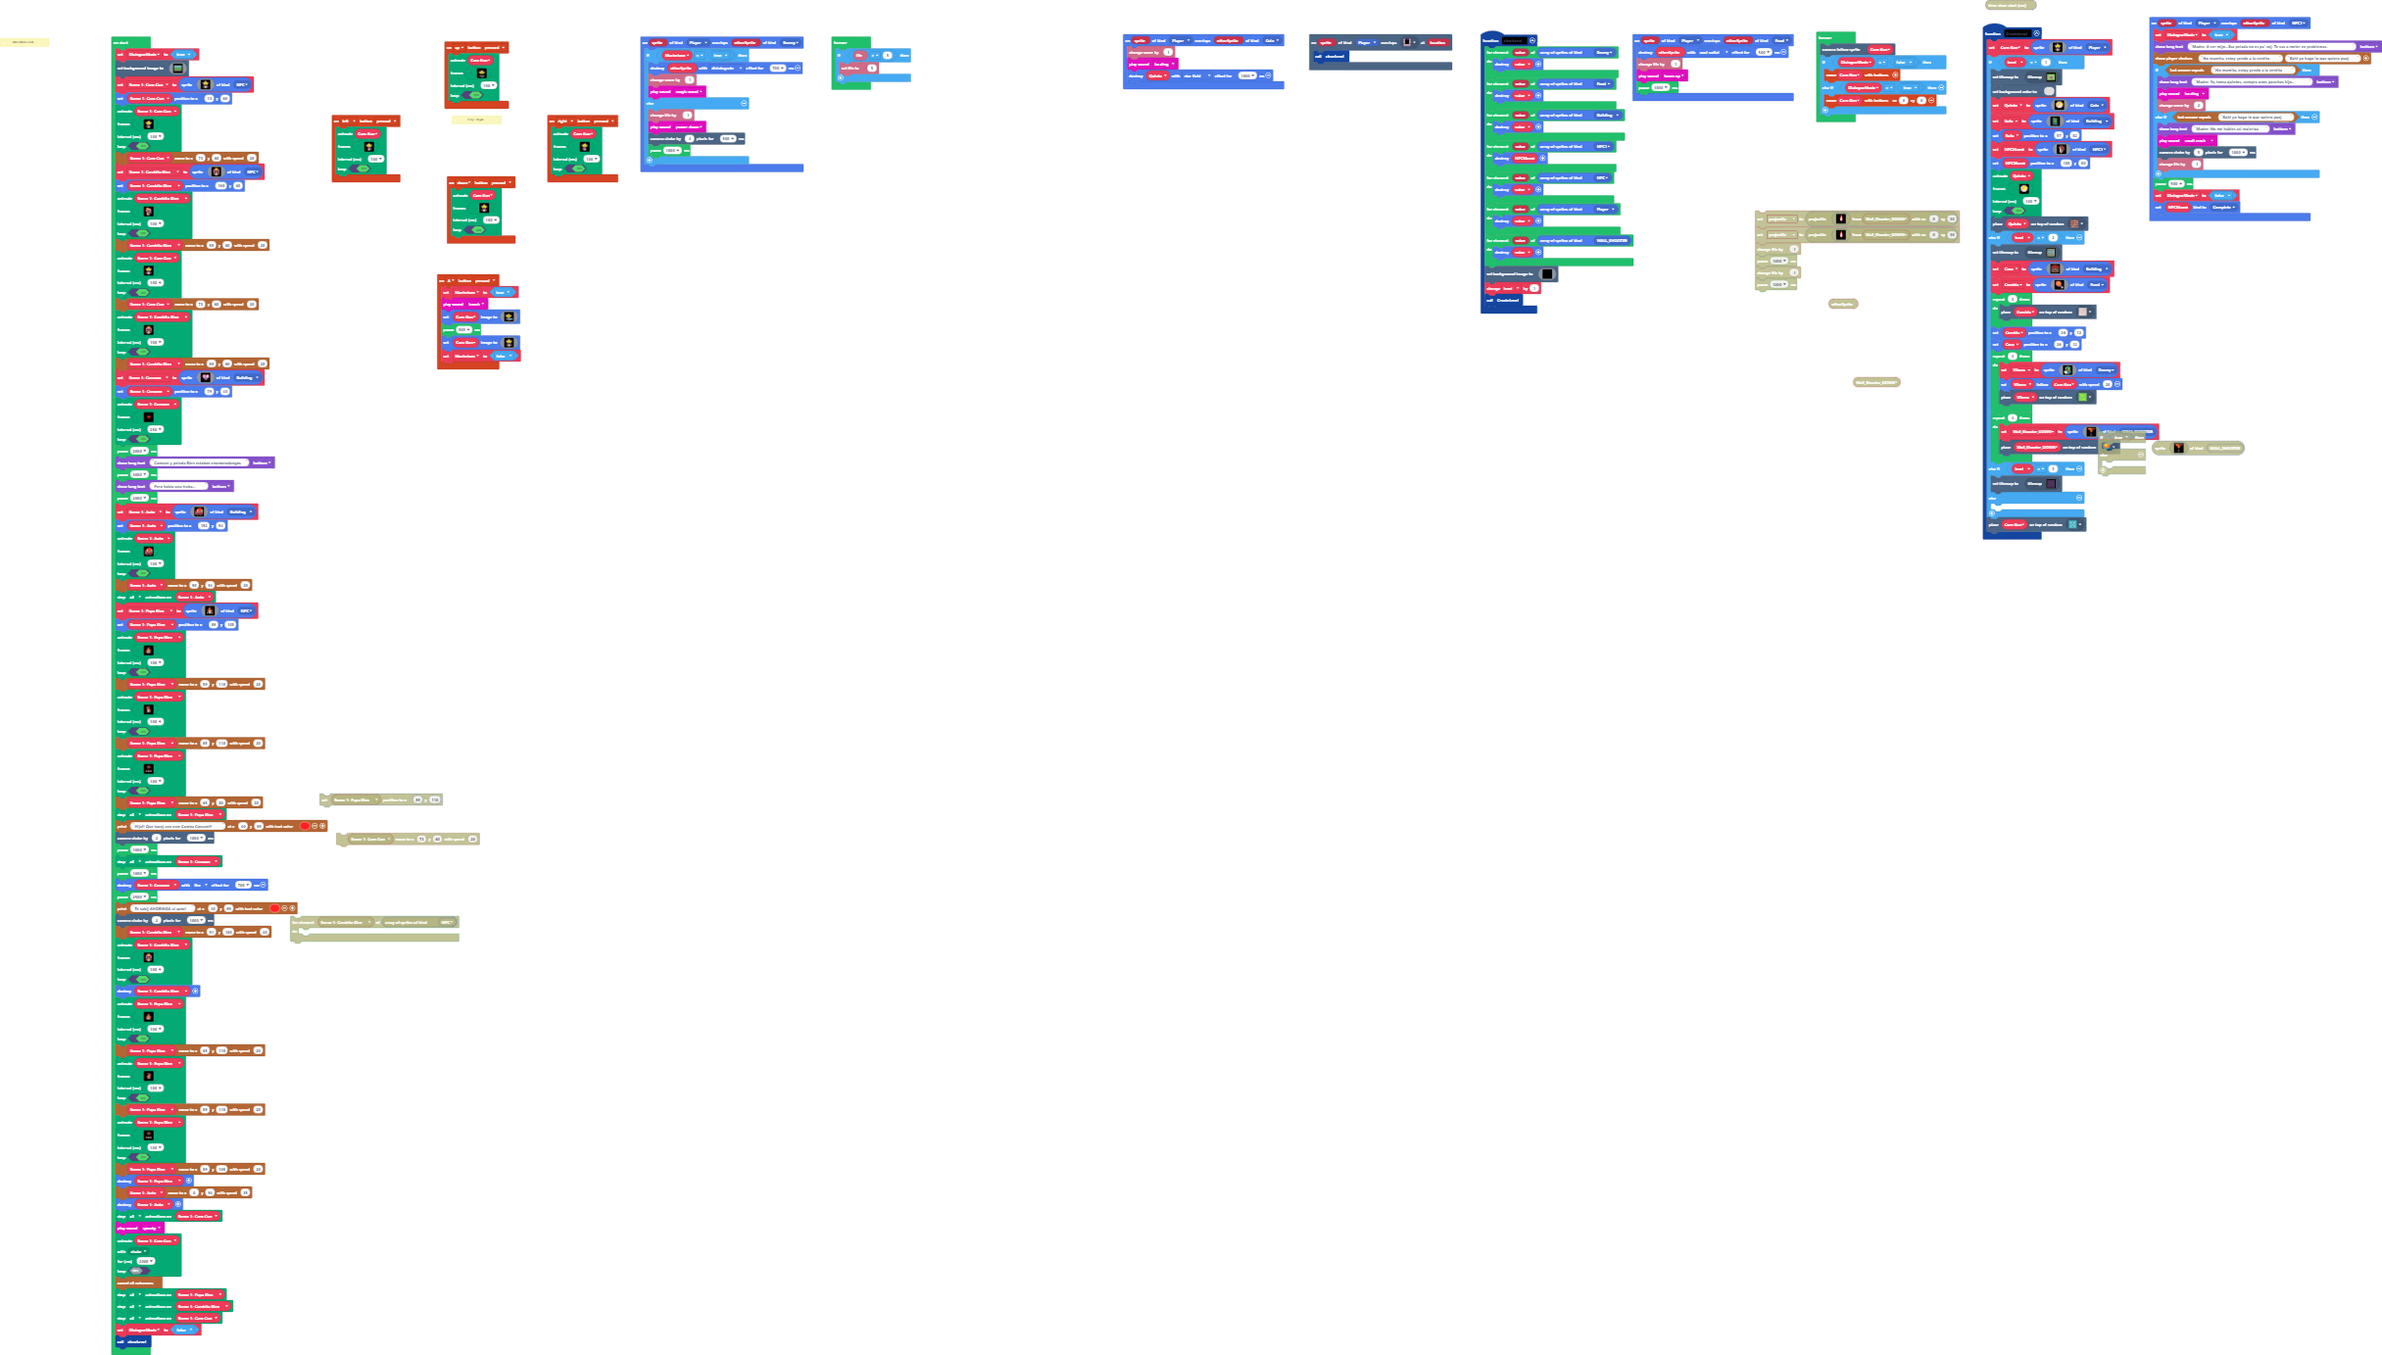
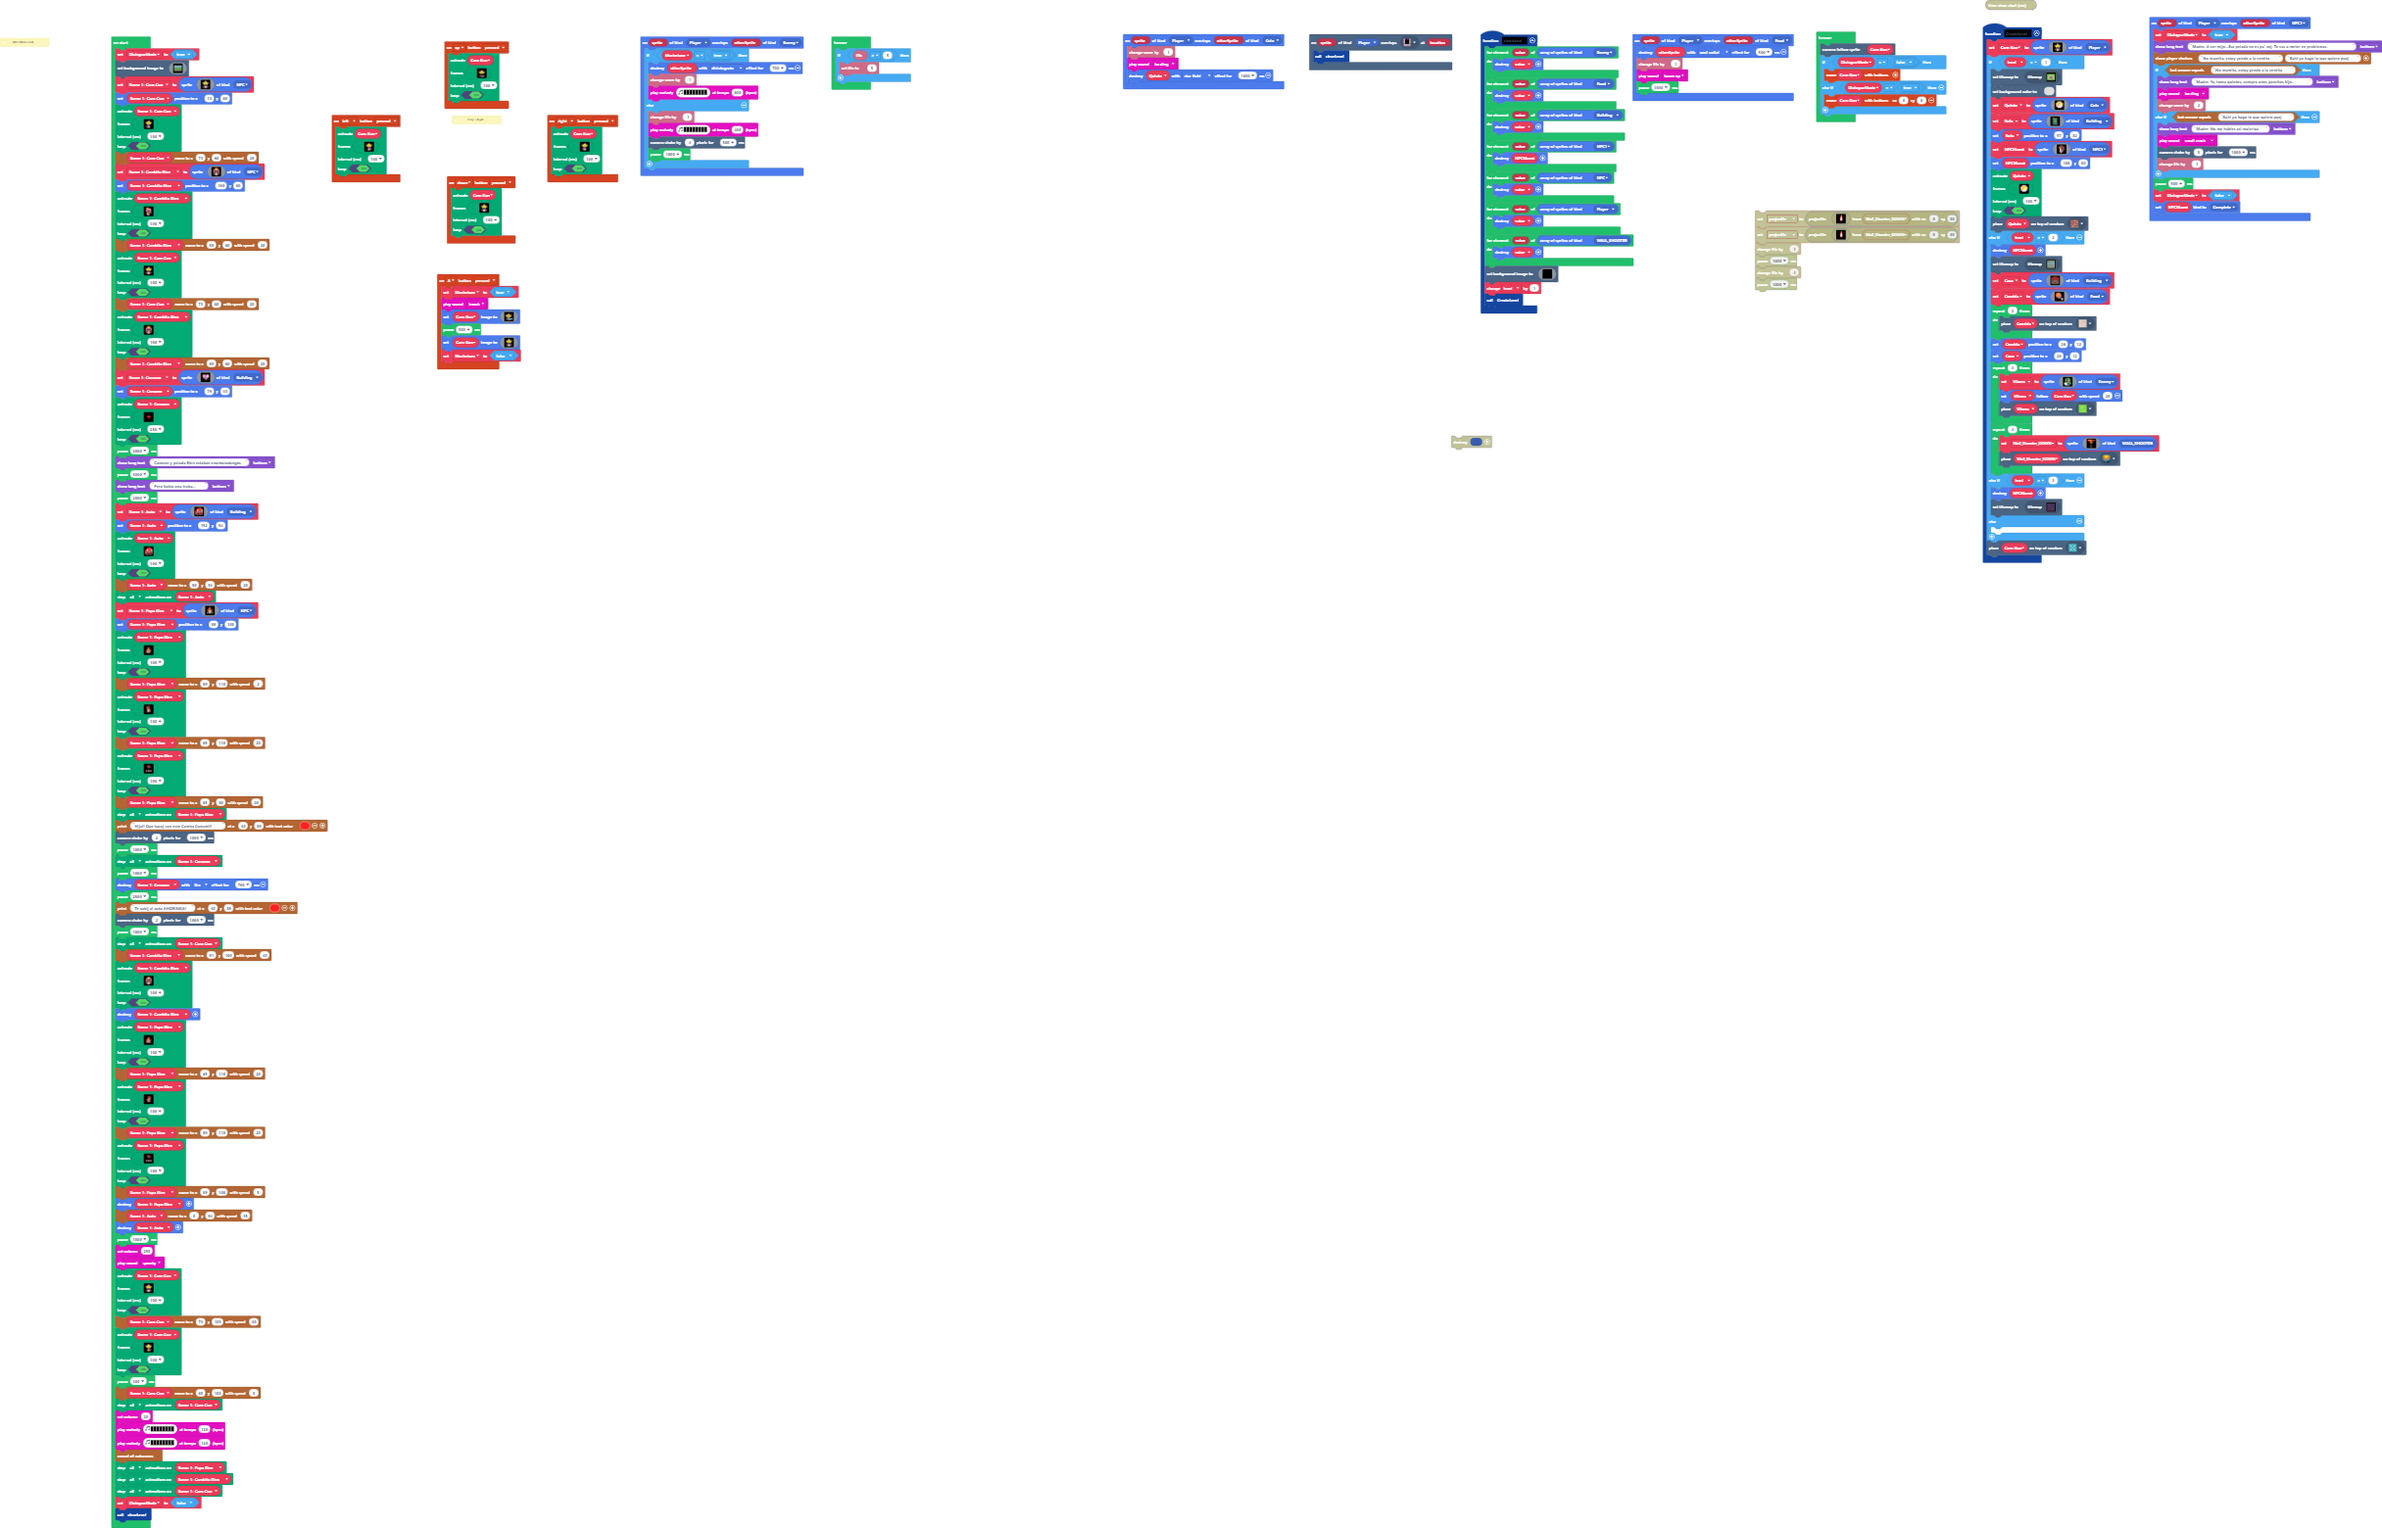
Update main.blocks, main.ts

Changed region(s): [[0.0309, 0.0, 0.4011, 0.9949], [0.4628, 0.0, 1.0, 0.4042], [0.7713, 0.2798, 0.8021, 0.3109]]

diff --git a/main.ts b/main.ts
@@ -431,6 +431,7 @@ function CreateLevel () {
         )
         tiles.placeOnRandomTile(Quinto, assets.tile`myTile1`)
     } else if (level == 2) {
+        NPCMama.destroy()
         tiles.setCurrentTilemap(tilemap`El Pirai`)
         Casa = sprites.create(img`
             ....................e2e22e2e....................
@@ -532,6 +533,7 @@ function CreateLevel () {
             tiles.placeOnRandomTile(Wall_Shooter_DOWN, assets.tile`forestTiles0`)
         }
     } else if (level == 3) {
+        NPCMama.destroy()
         tiles.setCurrentTilemap(tilemap`level4`)
     } else {
     	
@@ -771,10 +773,10 @@ sprites.onOverlap(SpriteKind.Player, SpriteKind.Enemy, function (sprite, otherSp
     if (Machetazo == true) {
         otherSprite.destroy(effects.disintegrate, 700)
         info.changeScoreBy(1)
-        music.magicWand.play()
+        music.playMelody("B C5 C5 - - - - - ", 600)
     } else {
         info.changeLifeBy(-1)
-        music.powerDown.play()
+        music.playMelody("C D D - - - - - ", 400)
         scene.cameraShake(4, 500)
         pause(1000)
     }
@@ -1524,7 +1526,7 @@ Scene_1_Papa_Bien,
 100,
 true
 )
-story.spriteMoveToLocation(Scene_1_Papa_Bien, 89, 110, 20)
+story.spriteMoveToLocation(Scene_1_Papa_Bien, 89, 110, 2)
 animation.runImageAnimation(
 Scene_1_Papa_Bien,
 [img`
@@ -1649,8 +1651,10 @@ animation.stopAnimation(animation.AnimationTypes.All, Scene_1_Corazon)
 pause(1000)
 Scene_1_Corazon.destroy(effects.fire, 700)
 pause(2500)
-story.printText("Te subij AHORINGA al auto!", 40, 89, 2)
+story.printText("Te subij al auto AHORINGA!", 40, 89, 2)
 scene.cameraShake(2, 1000)
+pause(1000)
+animation.stopAnimation(animation.AnimationTypes.All, Scene_1_CamCun)
 story.spriteMoveToLocation(Scene_1_Cambita_Bien, 91, 100, 40)
 animation.runImageAnimation(
 Scene_1_Cambita_Bien,
@@ -1900,18 +1904,168 @@ Scene_1_Papa_Bien,
 100,
 true
 )
-story.spriteMoveToLocation(Scene_1_Papa_Bien, 89, 108, 20)
+story.spriteMoveToLocation(Scene_1_Papa_Bien, 89, 108, 5)
 Scene_1_Papa_Bien.destroy()
 story.spriteMoveToLocation(Scene_1_Auto, 0, 94, 35)
 Scene_1_Auto.destroy()
-animation.stopAnimation(animation.AnimationTypes.All, Scene_1_CamCun)
+pause(1000)
+music.setVolume(255)
 music.spooky.play()
-animation.runMovementAnimation(
+animation.runImageAnimation(
 Scene_1_CamCun,
-animation.animationPresets(animation.shake),
-2000,
-false
+[img`
+    . . . . . . . c c c . . . . . . 
+    . . . . . . c b 5 c . . . . . . 
+    . . . . c c c 5 5 c c c . . . . 
+    . . c c b c 5 5 5 5 c c c c . . 
+    . c b b 5 b 5 5 5 5 b 5 b b c . 
+    . c b 5 5 b b 5 5 b b 5 5 b c . 
+    . . f 5 5 5 b b b b 5 5 5 c . . 
+    . . f f 5 5 5 5 5 5 5 5 f f . . 
+    . . f f f b f e e f b f f f . . 
+    . . f f f 1 f b b f 1 f f f . . 
+    . . . f f b b b b b b f f . . . 
+    . . . e e f e e e e f e e . . . 
+    . . e b c b 1 b b 1 b f b e . . 
+    . . e e f 1 1 1 1 1 1 f e e . . 
+    . . . . c b 1 1 1 1 b c . . . . 
+    . . . . . f f f f f f . . . . . 
+    `,img`
+    . . . . . . . . . . . . . . . . 
+    . . . . . . c c . . . . . . . . 
+    . . . . . . c 5 c . . . . . . . 
+    . . . . c c c 5 5 c c c . . . . 
+    . . c c c c 5 5 5 5 c b c c . . 
+    . c b b 5 b 5 5 5 5 b 5 b b c . 
+    . c b 5 5 b b 5 5 b b 5 5 b c . 
+    . . c 5 5 5 b b b b 5 5 5 f . . 
+    . . f f 5 5 5 5 5 5 5 5 f f . . 
+    . . f f f b f e e f b f f f . . 
+    . . f f f 1 f b b f 1 f f f . . 
+    . . . f f b b b b e e e f . . . 
+    . . e b b f e e e e b b e . . . 
+    . . e e f 1 1 b b e b b e . . . 
+    . . . f 1 1 1 1 1 e e c . . . . 
+    . . . . f f f f f f f . . . . . 
+    `,img`
+    . . . . . . c c c . . . . . . . 
+    . . . . . . c 5 b c . . . . . . 
+    . . . . c c c 5 5 c c c . . . . 
+    . . c c c c 5 5 5 5 c b c c . . 
+    . c b b 5 b 5 5 5 5 b 5 b b c . 
+    . c b 5 5 b b 5 5 b b 5 5 b c . 
+    . . c 5 5 5 b b b b 5 5 5 f . . 
+    . . f f 5 5 5 5 5 5 5 5 f f . . 
+    . . f f f b f e e f b f f f . . 
+    . . f f f 1 f b b f 1 f f f . . 
+    . . . f f b b b b b b f f . . . 
+    . . . e e f e e e e f e e . . . 
+    . . e b f b 1 b b 1 b c b e . . 
+    . . e e f 1 1 1 1 1 1 f e e . . 
+    . . . . c b 1 1 1 1 b c . . . . 
+    . . . . . f f f f f f . . . . . 
+    `,img`
+    . . . . . . . . . . . . . . . . 
+    . . . . . . . . c c . . . . . . 
+    . . . . . . . c 5 c . . . . . . 
+    . . . . c c c 5 5 c c c . . . . 
+    . . c c b c 5 5 5 5 c c c c . . 
+    . c b b 5 b 5 5 5 5 b 5 b b c . 
+    . c b 5 5 b b 5 5 b b 5 5 b c . 
+    . . f 5 5 5 b b b b 5 5 5 c . . 
+    . . f f 5 5 5 5 5 5 5 5 f f . . 
+    . . f f f b f e e f b f f f . . 
+    . . f f f 1 f b b f 1 f f f . . 
+    . . . f e e e b b b b f f . . . 
+    . . . e b b e e e e f b b e . . 
+    . . . e b b e b b 1 1 f e e . . 
+    . . . . c e e 1 1 1 1 1 f . . . 
+    . . . . . f f f f f f f . . . . 
+    `],
+100,
+true
 )
+story.spriteMoveToLocation(Scene_1_CamCun, 73, 103, 30)
+animation.runImageAnimation(
+Scene_1_CamCun,
+[img`
+    . . . . . . . c c . . . . . . . 
+    . . . . . . c 5 c . . . . . . . 
+    . . . . c c 5 5 5 c c c . . . . 
+    . . c c c c 5 5 5 5 c b c c . . 
+    . c b b 5 b 5 5 5 5 b 5 b b c . 
+    . c b 5 5 b b 5 5 b b 5 5 b c . 
+    . . c 5 5 5 b b b b 5 5 5 f . . 
+    . . . f 5 5 5 5 5 5 5 5 f f . . 
+    . . . . f e e e f b e e f f . . 
+    . . . . f e b b f 1 b f f f . . 
+    . . . . f b b b b b b f f . . . 
+    . . . . . f e e e e f e e . . . 
+    . . . . . f 5 b b e b b e . . . 
+    . . . . f 5 5 5 5 e b b e . . . 
+    . . . . c b 5 5 5 5 e e . . . . 
+    . . . . . f f f f f f . . . . . 
+    `,img`
+    . . . . . . . . . . . . . . . . 
+    . . . . . . . c c . . . . . . . 
+    . . . . . . c c 5 c . . . . . . 
+    . . . . c c 5 5 5 c c c . . . . 
+    . . c c c c 5 5 5 5 c b c c . . 
+    . c b b 5 b 5 5 5 5 b 5 b b c . 
+    . c b 5 5 b b 5 5 b b 5 5 b c . 
+    . . c 5 5 5 b b b b 5 5 5 f . . 
+    . . . f 5 5 5 5 5 5 5 5 f f . . 
+    . . . . f e e e f b e e f f . . 
+    . . . . f e b b f 1 b f f f . . 
+    . . . . f b b b b e e f f . . . 
+    . . . . . f e e e b b e f . . . 
+    . . . . f 5 b b e b b e . . . . 
+    . . . . c 5 5 5 5 e e f . . . . 
+    . . . . . f f f f f f . . . . . 
+    `,img`
+    . . . . . . . c c . . . . . . . 
+    . . . . . . c 5 c . . . . . . . 
+    . . . . c c 5 5 5 c c c . . . . 
+    . . c c c c 5 5 5 5 c b c c . . 
+    . c b b 5 b 5 5 5 5 b 5 b b c . 
+    . c b 5 5 b b 5 5 b b 5 5 b c . 
+    . . c 5 5 5 b b b b 5 5 5 f . . 
+    . . . f 5 5 5 5 5 5 5 5 f f . . 
+    . . . . f e e e f b e e f f . . 
+    . . . . f e b b f 1 b f f f . . 
+    . . . . f b b b b b b f f . . . 
+    . . . . . f e e e e f e e . . . 
+    . . . . . f 5 b b e b b e . . . 
+    . . . . f 5 5 5 5 e b b e . . . 
+    . . . . c b 5 5 5 5 e e . . . . 
+    . . . . . f f f f f f . . . . . 
+    `,img`
+    . . . . . . . . . . . . . . . . 
+    . . . . . . . c c . . . . . . . 
+    . . . . . . c c 5 c . . . . . . 
+    . . . . c c 5 5 5 c c c . . . . 
+    . . c c c c 5 5 5 5 c b c c . . 
+    . c b b 5 b 5 5 5 5 b 5 b b c . 
+    . c b 5 5 b b 5 5 b b 5 5 b c . 
+    . . c 5 5 5 b b b b 5 5 5 f . . 
+    . . . f 5 5 5 5 5 5 5 5 f f . . 
+    . . . . f e e e f b e e f f . . 
+    . . . . f e b b f 1 b f f f . . 
+    . . . . f b b b b b b f f . . . 
+    . . . . . f e e e e e b b e . . 
+    . . . . f 5 5 b b b e b b e . . 
+    . . . . c 5 5 5 5 5 e e e . . . 
+    . . . . . f f f f f f . . . . . 
+    `],
+100,
+true
+)
+pause(400)
+story.spriteMoveToLocation(Scene_1_CamCun, 65, 103, 5)
+animation.stopAnimation(animation.AnimationTypes.All, Scene_1_CamCun)
+music.setVolume(20)
+music.playMelody("A G F F E D C C ", 120)
+music.playMelody("A G F F E D C C ", 120)
 story.cancelAllCutscenes()
 animation.stopAnimation(animation.AnimationTypes.All, Scene_1_Papa_Bien)
 animation.stopAnimation(animation.AnimationTypes.All, Scene_1_Cambita_Bien)
